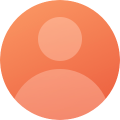
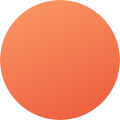
feat:更换网页标题和logo

diff --git a/web/index.html b/web/index.html
@@ -26,7 +26,7 @@
   <!-- Favicon -->
   <link rel="icon" type="image/png" href="favicon.png"/>
 
-  <title>idol</title>
+  <title>Fans</title>
   <link rel="manifest" href="manifest.json">
 </head>
 <body>

diff --git a/README.md b/README.md
@@ -1,4 +1,4 @@
-# idol
+# Fans
 
 A new Flutter project.
 
